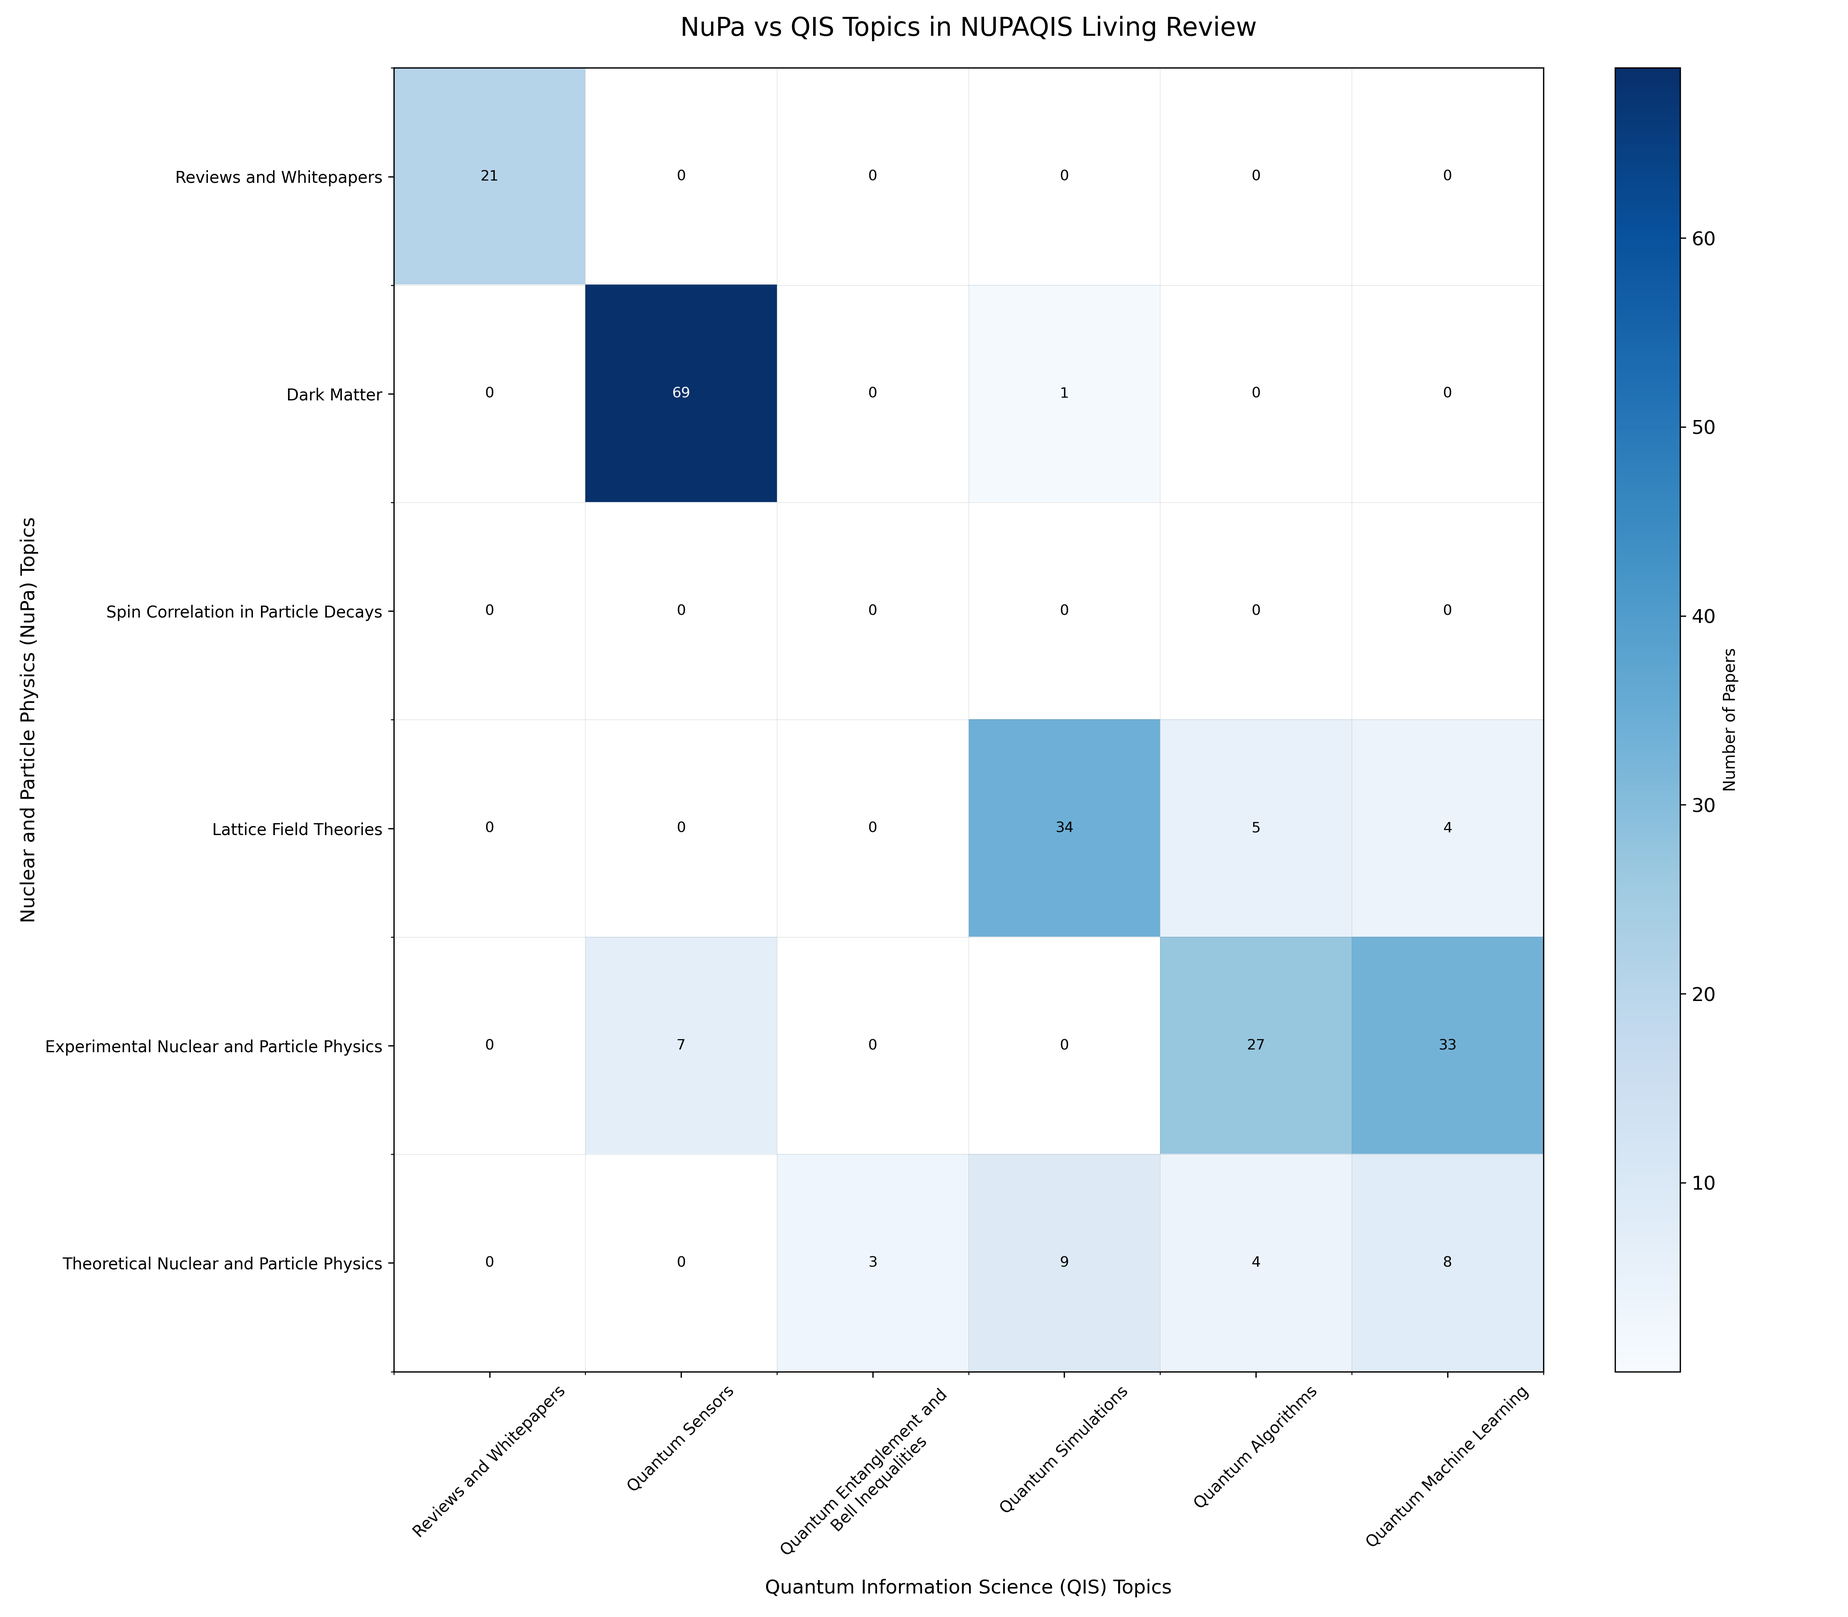
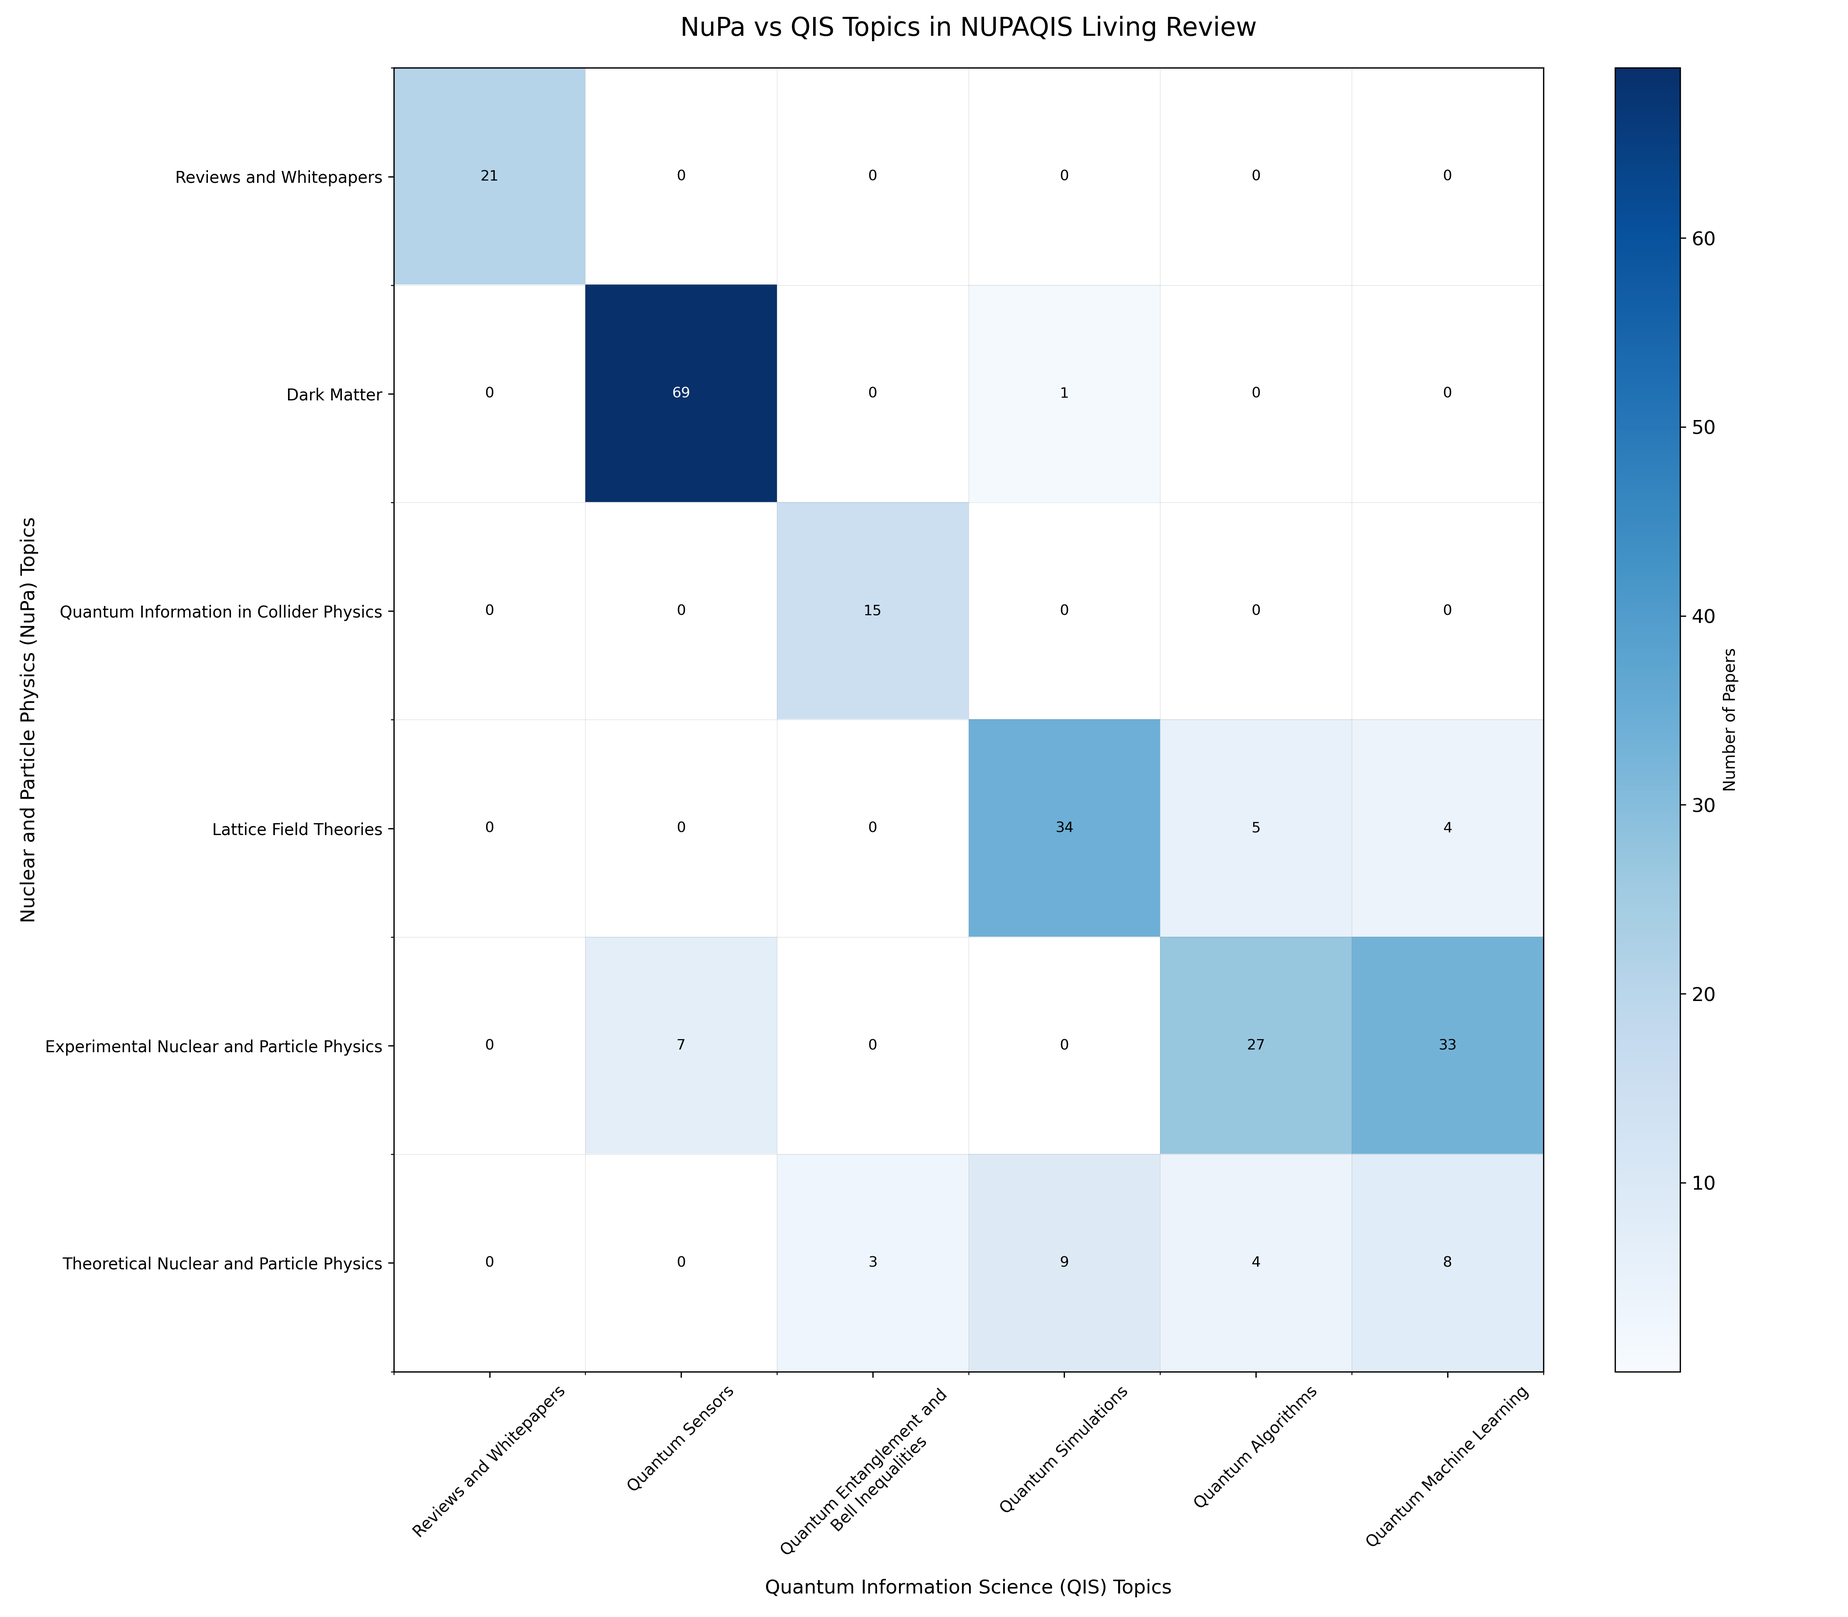
MathJax formatting issues to check on GitHub

Changed region(s): [[0.4062, 0.3119, 0.5312, 0.4679], [0.0625, 0.3743, 0.125, 0.4055], [0.1562, 0.3743, 0.1875, 0.4055]]

diff --git a/utils.py b/utils.py
@@ -292,7 +292,7 @@ def plot_histogram(df, run):
 
 def plot_2D_nupaqis_heatmap(df, categories_nupa, categories_qis, heatmap_nupa, heatmap_qis):
 
-    nupa_heatmap = ['Reviews and Whitepapers', 'Dark Matter', 'Spin Correlation in Particle Decays', 'Lattice Field Theories', 'Experimental Nuclear and Particle Physics', 'Theoretical Nuclear and Particle Physics']
+    nupa_heatmap = ['Reviews and Whitepapers', 'Dark Matter', 'Quantum Information in Collider Physics', 'Lattice Field Theories', 'Experimental Nuclear and Particle Physics', 'Theoretical Nuclear and Particle Physics']
     qis_heatmap = ['Reviews and Whitepapers', 'Quantum Sensors', 'Quantum Entanglement and Bell Inequalities', 'Quantum Simulations', 'Quantum Algorithms', 'Quantum Machine Learning']
     # Build the matrix
     heatmap_data = np.zeros((len(nupa_heatmap), len(qis_heatmap)))

diff --git a/README.md b/README.md
@@ -169,7 +169,7 @@ References:
 
 
 
-In high-energy particle collisions, jets are a collection of collimated hadrons and other particles produced by the hadronization of quarks and gluons. Since quarks and gluons carry color charge, they cannot exist as free particles due to QCD confinement. Instead, they fragment and hadronize, resulting in a spray of energetic hadrons, which are define as jets. Jet reconstruction is the procedure used to group these final-state particles into composite objects, and by measuring their direction and energy, the properties of the original partons can be inferred. Jet reconstruction is typically done using clustering algorithms such as anti$\text{-}k_T$, $k_T$, or Cambridge/Aachen. Reconstructed jets are fundamental observables in collider physics, used to probe QCD, identify heavy-flavor decays, and search for physics beyond the Standard Model. The study of jets and their properties is crucial for understanding the underlying physics processes in high-energy collisions.
+In high-energy particle collisions, jets are a collection of collimated hadrons and other particles produced by the hadronization of quarks and gluons. Since quarks and gluons carry color charge, they cannot exist as free particles due to QCD confinement. Instead, they fragment and hadronize, resulting in a spray of energetic hadrons, which are define as jets. Jet reconstruction is the procedure used to group these final-state particles into composite objects, and by measuring their direction and energy, the properties of the original partons can be inferred. Jet reconstruction is typically done using clustering algorithms such as anti-$ `k_T `$, $k_T$, or Cambridge/Aachen. Reconstructed jets are fundamental observables in collider physics, used to probe QCD, identify heavy-flavor decays, and search for physics beyond the Standard Model. The study of jets and their properties is crucial for understanding the underlying physics processes in high-energy collisions.
 
 References:
   - Towards Jetography: https://arxiv.org/abs/0906.1833
@@ -183,7 +183,7 @@ References:
 
 Quantum field theory (QFT) is the theoretical framework underlying the Standard Model of particle physics, a theory that describes the fundamental particles and their interactions: electromagnetic, weak, and strong forces. A field carries dynamical degrees of freedom at every point in space, so a single field has infinitely many degrees of freedom and its quantum states live in an infinite-dimensional Hilbert space. To make such a theory well-defined and computable, it is regularized on a lattice: continuous spacetime is replaced by a discrete grid of points separated by a lattice spacing $a$, which acts as a short-distance (ultraviolet) cutoff, so that a finite volume contains only a finite number of lattice sites and the physical continuum theory is recovered as $a \to 0$. Even so, this does not render the Hilbert space finite-dimensional: for a bosonic field the state space at each site remains infinite-dimensional, since the occupation number is unbounded, and in practice it must be truncated. Lattice field theory is very successful as a classical tool: in its Euclidean path-integral formulation, observables are evaluated by Monte Carlo sampling, which has given first-principles predictions for hadron masses and other static properties of quantum chromodynamics (QCD). This classical approach is limited, however, because real-time dynamics and systems at finite matter density induce a sign problem, in which the sampled weight is no longer positive and the signal-to-noise ratio degrades exponentially with the spacetime volume. The lattice field theories considered here can be grouped into: (1) scalar and fermionic theories; (2) gauge theories; and (3) the Schwinger model.
 
-Scalar and fermionic QFTs are the simplest types of QFTs, containing matter fields but no dynamical gauge fields. A scalar field is a spin-0 bosonic field that assigns a single number to each point in spacetime, while a fermionic field is a spin-$\frac{1}{2}$ field describing matter particles such as electrons and quarks. An example of a scalar field theory is $\lambda\phi^4$ theory, with Lagrangian $\mathcal{L} = \frac{1}{2}(\partial_{\mu}\phi)(\partial^{\mu}\phi) - \frac{1}{2}m^2\phi^2 - \frac{\lambda}{4!}\phi^4$, where $\phi$ is a real scalar field, $m$ is its mass, and $\lambda$ is the coupling of the quartic self-interaction. This simple theory exhibits renormalization, the systematic absorption of the infinities that arise at short distances (when quantum corrections are computed) into the parameters of the theory, and for $m^2 < 0$ it undergoes spontaneous symmetry breaking, in which the field acquires a nonzero vacuum expectation value (a nonzero average value in the ground state) that breaks the discrete $\phi \to -\phi$ symmetry of the Lagrangian. An example of a fermionic field theory is the Gross-Neveu model, with Lagrangian $\mathcal{L} = \bar{\psi}\,i\gamma^{\mu}\partial_{\mu}\psi + \frac{g^2}{2}(\bar{\psi}\psi)^2$, where $\psi$ is a Dirac fermion field carrying a flavor index that is summed over, $\bar{\psi} = \psi^{\dagger}\gamma^0$, and $g^2$ is the coupling of the four-fermion interaction. Written without a mass term, it is invariant under a discrete chiral symmetry $\psi \to \gamma^5\psi$ (a symmetry acting oppositely on left- and right-handed fermions), yet it is asymptotically free, meaning the coupling weakens at short distances, and it dynamically generates a fermion mass by breaking that chiral symmetry, in close analogy to QCD. Discretizing fermions on a lattice introduces the fermion-doubling problem, in which extra fermion species appear and must be removed by modifications.
+Scalar and fermionic QFTs are the simplest types of QFTs, containing matter fields but no dynamical gauge fields. A scalar field is a spin-0 bosonic field that assigns a single number to each point in spacetime, while a fermionic field is a spin-1/2 field describing matter particles such as electrons and quarks. An example of a scalar field theory is $\lambda\phi^4$ theory, with Lagrangian $\mathcal{L} = \frac{1}{2}(\partial_{\mu}\phi)(\partial^{\mu}\phi) - \frac{1}{2}m^2\phi^2 - \frac{\lambda}{4!}\phi^4$, where $\phi$ is a real scalar field, $m$ is its mass, and $\lambda$ is the coupling of the quartic self-interaction. This simple theory exhibits renormalization, the systematic absorption of the infinities that arise at short distances (when quantum corrections are computed) into the parameters of the theory, and for $m^2 < 0$ it undergoes spontaneous symmetry breaking, in which the field acquires a nonzero vacuum expectation value (a nonzero average value in the ground state) that breaks the discrete $\phi \to -\phi$ symmetry of the Lagrangian. An example of a fermionic field theory is the Gross-Neveu model, with Lagrangian $\mathcal{L} = \bar{\psi}i\gamma^{\mu}\partial_{\mu}\psi + \frac{g^2}{2}(\bar{\psi}\psi)^2$, where $\psi$ is a Dirac fermion field carrying a flavor index that is summed over, $\bar{\psi} = \psi^{\dagger}\gamma^0$, and $g^2$ is the coupling of the four-fermion interaction. Written without a mass term, it is invariant under a discrete chiral symmetry $\psi \to \gamma^5\psi$ (a symmetry acting oppositely on left- and right-handed fermions), yet it is asymptotically free, meaning the coupling weakens at short distances, and it dynamically generates a fermion mass by breaking that chiral symmetry, in close analogy to QCD. Discretizing fermions on a lattice introduces the fermion-doubling problem, in which extra fermion species appear and must be removed by modifications.
 
 References:
   - Heinz J. Rothe, *Lattice Gauge Theories: An Introduction*
@@ -248,7 +248,7 @@ References:
   - Quantum entanglement and Bell inequality violation at colliders: https://arxiv.org/abs/2402.07972
   - Entanglement and quantum tomography with top quarks at the LHC (Afik & de Nova): https://arxiv.org/abs/2003.02280
   - Observation of quantum entanglement with top quarks at the ATLAS detector (ATLAS Collaboration): https://arxiv.org/abs/2311.07288
-  - Observation of quantum entanglement in top quark pair production in proton-proton collisions at $\sqrt{s} = 13\,\text{TeV}$: https://arxiv.org/abs/2406.03976
+  - Observation of quantum entanglement in top quark pair production in proton-proton collisions at $\sqrt{s} = 13\text{ TeV}$: https://arxiv.org/abs/2406.03976
 </details>
 
 <details>
@@ -279,7 +279,7 @@ The references below contain (static) reviews and whitepapers listed in applicat
 
 
 
-In contrast to discrete-variable quantum computing, which encodes information in finite-dimensional systems (typically qubits), continuous-variable (CV) quantum computing uses infinite-dimensional quantum systems whose observables have a continuous spectrum. The most common implementation is photonic, where information is encoded in the quadratures of the electromagnetic field, the position-like and momentum-like observables $\hat{x}$ and $\hat{p}$ of each mode, which obey the canonical commutation relation $[\hat{x}, \hat{p}] = i$. The basic unit of information is a qumode, a single harmonic oscillator whose state $\ket{\psi}$ lives in an infinite-dimensional Hilbert space and can be expanded in the quadrature eigenbases as $\ket{\psi} = \int dx\,\psi(x)\ket{x} = \int dp\,\tilde{\psi}(p)\ket{p}$, or equivalently in the Fock-number basis $\ket{n}$. Universal CV quantum computation requires at least one non-Gaussian element, such as a non-Gaussian gate, a non-Gaussian input state, or a non-Gaussian measurement, since Gaussian operations alone are classically simulable. A related non-universal CV model is Gaussian boson sampling, in which squeezed light is sent through a passive linear interferometer and measured with photon counters, producing samples from a distribution that is classically hard to reproduce under standard complexity assumptions.
+In contrast to discrete-variable quantum computing, which encodes information in finite-dimensional systems (typically qubits), continuous-variable (CV) quantum computing uses infinite-dimensional quantum systems whose observables have a continuous spectrum. The most common implementation is photonic, where information is encoded in the quadratures of the electromagnetic field, the position-like and momentum-like observables $\hat{x}$ and $\hat{p}$ of each mode, which obey the canonical commutation relation $[\hat{x}, \hat{p}] = i$. The basic unit of information is a qumode, a single harmonic oscillator whose state $\ket{\psi}$ lives in an infinite-dimensional Hilbert space and can be expanded in the quadrature eigenbases as $\ket{\psi} = \int dx \psi(x)\ket{x} = \int dp \tilde{\psi}(p)\ket{p}$, or equivalently in the Fock-number basis $\ket{n}$. Universal CV quantum computation requires at least one non-Gaussian element, such as a non-Gaussian gate, a non-Gaussian input state, or a non-Gaussian measurement, since Gaussian operations alone are classically simulable. A related non-universal CV model is Gaussian boson sampling, in which squeezed light is sent through a passive linear interferometer and measured with photon counters, producing samples from a distribution that is classically hard to reproduce under standard complexity assumptions.
 
 References:
   - Quantum computation over continuous variables: https://arxiv.org/abs/quant-ph/9810082
@@ -329,7 +329,7 @@ References:
 
 
 
-A random walk is a random process that describes a path that consists of a sequence of steps that are determined randomly. An example of a one dimensional discrete random walk is a random walk on the integer number line starting at $0$, and each step moves $+1$ or $-1$ with an equal probability, which is analogous to flipping a coin then, depending on the outcome, move forward or backwards on the number line. This can be described as a Markov chain, a sequence of random variables with the property that the probability of moving to the next step only depends on the current step and not the previous step, i.e. $p(X_{n+1} = x | X_1 = x_1, X_2 = x_2, \ldots) = p(X_{n+1} = x | X_n = x_n)$. This can be extended to higher dimensions. An example of a continuous random walk is Brownian motion, the random motion of particles in a medium. The quantum discrete random walk defines the movement of a walker in position basis, $\mathcal{H}_P = \{ \ket{i} : i \in \mathbb{Z} \}$, controlled by the coin in the spin-$\frac{1}{2}$ basis, $\mathcal{H}_C = \{\ket{\uparrow}, \ket{\downarrow}\}$. The translation of the walker can be represented by the unitary operator $T = \sum \ket{i + 1} \bra{i} \otimes \ket{\uparrow} \bra{\uparrow} + \sum \ket{i-1} \bra{i} \otimes \ket{\downarrow} \bra{\downarrow} $, where the index $i$ runs over $\mathbb{Z}$. Therefore, $T \ket{i} \ket{\uparrow} = \ket{i + 1} \ket{\uparrow}$ and $T \ket{i} \ket{\downarrow} = \ket{i-1} \ket{\downarrow}$. A single step of the random walk is constructed from a coin flip unitary operation $C$ and the translation operator, $T$. Therefore, a single step can be represented as a unitary operator $U = T \cdot (C \otimes \mathbb{I})$. An $N$-step quantum walk is defined by $U^N$. In the quantum random walk, the coin register is not measured during each step. This introduces interference, which is drastically different from the classical random walk.
+A random walk is a random process that describes a path that consists of a sequence of steps that are determined randomly. An example of a one dimensional discrete random walk is a random walk on the integer number line starting at $0$, and each step moves $+1$ or $-1$ with an equal probability, which is analogous to flipping a coin then, depending on the outcome, move forward or backwards on the number line. This can be described as a Markov chain, a sequence of random variables with the property that the probability of moving to the next step only depends on the current step and not the previous step, i.e. $p(X_{n+1} = x | X_1 = x_1, X_2 = x_2, \ldots) = p(X_{n+1} = x | X_n = x_n)$. This can be extended to higher dimensions. An example of a continuous random walk is Brownian motion, the random motion of particles in a medium. The quantum discrete random walk defines the movement of a walker in position basis, $\mathcal{H}_P = \{ \ket{i} : i \in \mathbb{Z} \}$, controlled by the coin in the spin-1/2 basis, $\mathcal{H}_C = \{\ket{\uparrow}, \ket{\downarrow}\}$. The translation of the walker can be represented by the unitary operator $T = \sum \ket{i + 1} \bra{i} \otimes \ket{\uparrow} \bra{\uparrow} + \sum \ket{i-1} \bra{i} \otimes \ket{\downarrow} \bra{\downarrow} $, where the index $i$ runs over $\mathbb{Z}$. Therefore, $T \ket{i} \ket{\uparrow} = \ket{i + 1} \ket{\uparrow}$ and $T \ket{i} \ket{\downarrow} = \ket{i-1} \ket{\downarrow}$. A single step of the random walk is constructed from a coin flip unitary operation $C$ and the translation operator, $T$. Therefore, a single step can be represented as a unitary operator $U = T \cdot (C \otimes \mathbb{I})$. An $N$-step quantum walk is defined by $U^N$. In the quantum random walk, the coin register is not measured during each step. This introduces interference, which is drastically different from the classical random walk.
 
 References:
   - Quantum Random Walks - A Comprehensive Review: https://arxiv.org/abs/1201.4780
